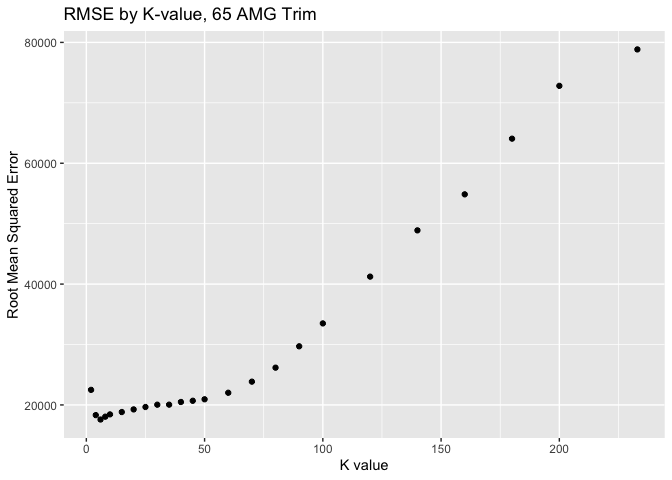
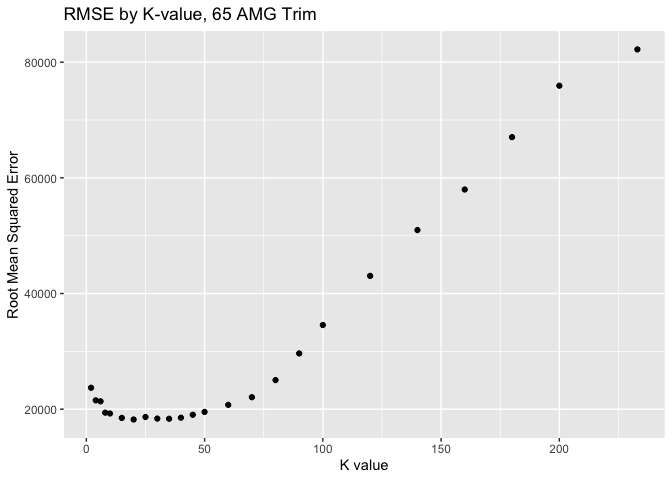
Updated question 3 again

diff --git a/Exercise 1/Exercise-1.md b/Exercise 1/Exercise-1.md
@@ -82,21 +82,19 @@ is?*
 
 ![](Exercise-1_files/figure-markdown_strict/3.1-1.png)![](Exercise-1_files/figure-markdown_strict/3.1-2.png)
 
-    ## [1] 8519.621
+    ## [1] 9669.838
 
-    ## [1] 19259.85
+    ## [1] 21356.8
 
 ![](Exercise-1_files/figure-markdown_strict/3.2-1.png)![](Exercise-1_files/figure-markdown_strict/3.2-2.png)
 
  
 
-RMSE is minimized for the 350 trim at K = 35, with an RMSE value of
-9,290.
+RMSE is minimized for the 350 trim at K = 15.
 
-For the 65 AMG trim, RMSE is minimized at K = 20, with a value of
-20,941.
+For the 65 AMG trim, RMSE is minimized at K = 6.
 
-The 350 trim yields a larger optimal value of K, 35 vs. 20. This is
+The 350 trim yields a larger optimal value of K, 15 vs. 6. This is
 likely due to a larger sample size. The dataset contains 417 vehicles
 with the 350 trim, but only 292 vehicles with the 65 AMG trim. With more
 data points nearby, we can afford a higher K-value, since the bias is
